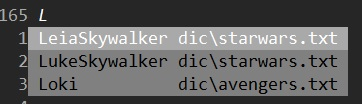
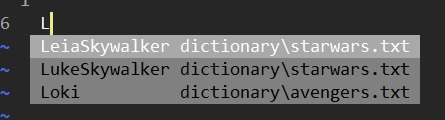
omni completion

diff --git a/IDE/Vim/15.Autocomplete/sample/demo.html b/IDE/Vim/15.Autocomplete/sample/demo.html
@@ -1,0 +1,2 @@
+<!DOCTYPE html>
+<html><head></head><body></body></html>

diff --git a/IDE/Vim/15.Autocomplete/README.md b/IDE/Vim/15.Autocomplete/README.md
@@ -5,7 +5,6 @@ When in Insert Mode, use the following hotkeys to autocomplete what we type.
 > See `:h ins-completion` for more details.
 
 
-
 | Input keys | Description |
 |:-----------|:------------|
 | `<CTRL-n>` | Show autocompletion list and stay in the first one. |
@@ -16,6 +15,7 @@ When in Insert Mode, use the following hotkeys to autocomplete what we type.
 | `<CTRL-x><CTRL-l>` | Show whole lines with matched keywords. |
 | `<CTRL-x><CTRL-]` | Show tags that are in the tag file. |
 | `<CTRL-x><CTRL-k>` | Show keywords in dictionary. |
+| `<CTRL-x><CTRL-o>` | Omni completion. |
 
 
 Notice that we can use "<Up>" and "<Down>" to navigate the autocomplete list. But it is suggested to use `<CTRL-n>`/`<CTRL-p>` to navigate because it will fill the selected item to the buffer without pressing `<ENTER>` or `<CTRL-y>` and you can press any key to continue your typing.
@@ -145,9 +145,9 @@ By enable spell-checking, we can show keywords in the spell list with `<CTRL-x><
 If we dont want to enable "spell" option, we can load the keywords from specific file(s).
 
 ```
-:set dictionary=dic/starwars.txt,dic/avengers.txt
+:set dictionary=dictionary/starwars.txt,dictionary/avengers.txt
 :set dictionary?
-dic/starwars.txt,dic/avengers.txt
+dictionary/starwars.txt,dictionary/avengers.txt
 ```
 
 Now we can get the keywords from the dictionary file(s) by `<CTRL-x><CTRL-k>`.
@@ -181,7 +181,7 @@ product_b.release.day = "Tueday";
 
 Here is the trick:
 
-![](assets/ac-xp.jpg)
+![](assets/ac-xp.gif)
 
 
 The steps:
@@ -189,11 +189,29 @@ The steps:
 | Input keys | Result | Note |
 |:-----------|:-------|:-----|
 | `iproduct<CTRL-n>` | product_a | Insert 'product' and complete it as "product_a". |
-| `<CTRL-x><CTRL-p>` | product_a.release | Complete '.release' which are followed by previous completion, "product_a". |
-| `<CTRL-x><CTRL-p>` | product_a.release.date | Complete '.date' which are followed by previous completion "product_a.release". |
+| `<CTRL-x><CTRL-p>` | product_a.release | Complete '.release' which are followed by previous completion. |
+| `<CTRL-x><CTRL-p>` | product_a.release.date | Complete '.date' which are followed by previous completion. |
 | `<CTRL-x><CTRL-p>` | product_a.release.date = "2021 | Complete ' = "2021' which are followed by previous completion. |
 | `-09-09";` | product_a.release.date = "2021-09-09"; | |
 
+
+## Omin(全能) completion
+
+- `<CTRL-x><CTRL-o>` omni completion.
+
+Omni completion provides smart autocompletion for programs.
+Check the default support file types by `:h compl-omni-filetypes` or install new plugins.
+
+To enable using Omin completion, edit the "vimrc" with...
+
+```
+set nocompatibe
+filetype plugin on
+```
+
+Here is an example of HTML file.
+
+![](assets/ac-omni.gif)
 
 
 
